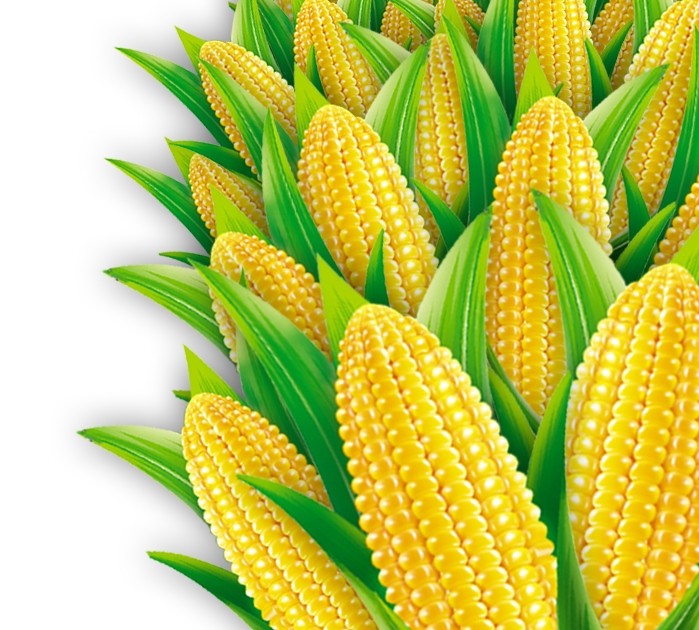
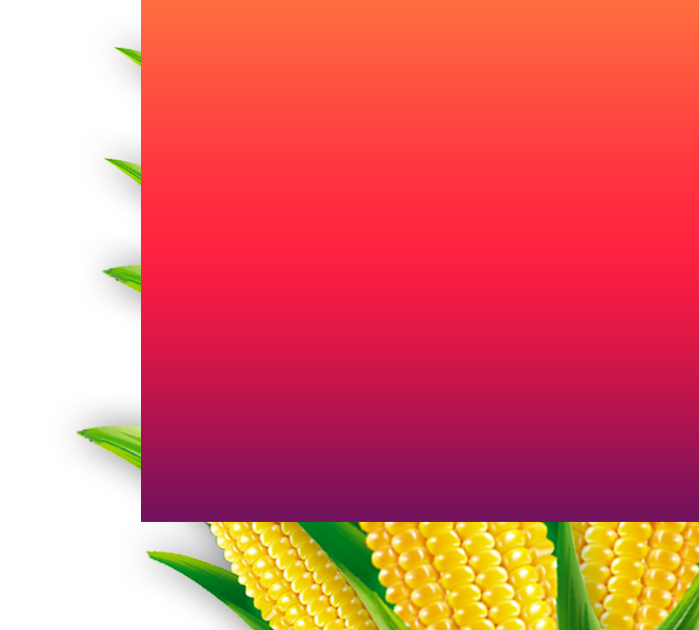
init

diff --git a/src/views/Farms/components/FarmCard/FarmCard.tsx b/src/views/Farms/components/FarmCard/FarmCard.tsx
@@ -133,6 +133,8 @@ const FarmCard: React.FC<FarmCardProps> = ({ farm, removed, cakePrice, bnbPrice,
 
   const { quoteTokenAdresses, quoteTokenSymbol, tokenAddresses, risk } = farm
 
+  if (risk !== 0) {
+
   return (
     <FCard>
       {farm.tokenSymbol === 'CORN' && <StyledCardAccent />}
@@ -202,5 +204,62 @@ const FarmCard: React.FC<FarmCardProps> = ({ farm, removed, cakePrice, bnbPrice,
     </FCard>
   )
 }
+
+  return (
+    <FCard>
+      {farm.tokenSymbol === 'CORN' && <StyledCardAccent />}
+      <CardHeading
+        lpLabel={lpLabel}
+        multiplier={farm.multiplier}
+        risk={risk}
+        depositFee={farm.depositFeeBP}
+        farmImage={farmImage}
+        tokenSymbol={farm.tokenSymbol}
+        otherExchange={farm.otherExchange}
+      />
+      {removed && (
+        <Flex justifyContent='space-between' alignItems='center'>
+          <Text color="#FFFFFF">{TranslateString(352, 'APR')}:</Text>
+          <Text color="#FFFFFF" bold style={{ display: 'flex', alignItems: 'center' }}>
+                ???%
+          </Text>
+        </Flex>
+      )}
+      <Flex justifyContent='space-between'>
+        <Text color="#FFFFFF">{TranslateString(318, 'Earn')}:</Text>
+        <Text mb="20px" color="#FFFFFF" bold>???</Text>
+      </Flex>
+      <Flex justifyContent='space-between'>
+        <Text color="#FFFFFF">{TranslateString(999, 'Create a pool for your token!')}</Text>
+        {/* <Text color="#FFFFFF" bold style={{ fontSize: '24px' }}>{(farm.depositFeeBP / 100)}%</Text> */}
+      </Flex>
+      <CardActionsContainer farm={farm} ethereum={ethereum} account={account} />
+      {/* <Divider />
+      <ExpandableSectionButton
+        onClick={() => setShowExpandableSection(!showExpandableSection)}
+        expanded={showExpandableSection}
+      />
+      <ExpandingWrapper expanded={showExpandableSection}>
+        <DetailsSection
+          removed={removed}
+          isTokenOnly={farm.isTokenOnly}
+          bscScanAddress={
+            farm.isTokenOnly ?
+              `https://cchain.explorer.avax.network/address/${farm.tokenAddresses[process.env.REACT_APP_CHAIN_ID]}`
+              :
+              `https://cchain.explorer.avax.network/address/${farm.lpAddresses[process.env.REACT_APP_CHAIN_ID]}`
+          }
+          totalValueFormated={totalValue}
+          lpLabel={lpLabel}
+          quoteTokenAdresses={quoteTokenAdresses}
+          quoteTokenSymbol={quoteTokenSymbol}
+          tokenAddresses={tokenAddresses}
+          otherExchange={farm.otherExchange}
+        />
+      </ExpandingWrapper> */}
+    </FCard>
+  )
+}
+
 
 export default FarmCard

diff --git a/src/views/Farms/components/FarmCard/CardActionsContainer.tsx b/src/views/Farms/components/FarmCard/CardActionsContainer.tsx
@@ -1,6 +1,7 @@
 import React, { useMemo, useState, useCallback } from 'react'
 import BigNumber from 'bignumber.js'
 import styled from 'styled-components'
+import { Link } from 'react-router-dom'
 import { provider } from 'web3-core'
 import { getContract } from 'utils/erc20'
 import { Button, Flex, Text } from '@pancakeswap-libs/uikit'
@@ -64,6 +65,8 @@ const CardActions: React.FC<FarmCardActionsProps> = ({ farm, ethereum, account }
     )
   }
 
+  if (pid !== -1) {
+
   return (
     <Action>
       <Flex>
@@ -87,6 +90,35 @@ const CardActions: React.FC<FarmCardActionsProps> = ({ farm, ethereum, account }
       {!account ? <UnlockButton mt="8px" fullWidth /> : renderApprovalOrStakeButton()}
     </Action>
   )
+}
+
+return (
+    <Action>
+      <Flex>
+        {/* <Text bold textTransform="uppercase" color="#FFFFFF" fontSize="12px" pr="3px">
+          TODO: Is there a way to get a dynamic value here from useFarmFromSymbol?
+          ???
+        </Text>
+        <Text bold textTransform="uppercase" color="#cacaca" fontSize="12px">
+          {TranslateString(999, 'Earned')}
+        </Text>
+      </Flex>
+      <HarvestAction earnings={earnings} pid={pid} decimal={decimal}/>
+      <Flex>
+        <Text bold textTransform="uppercase" color="#FFFFFF" fontSize="12px" pr="3px">
+          CORN
+        </Text>
+        <Text bold textTransform="uppercase" color="#cacaca" fontSize="12px">
+          {TranslateString(999, 'Staked')}
+        </Text> */}
+      </Flex>
+       <a href="https://t.me/FarmersOnlyDev" target="_blank" rel="noreferrer">
+        <Button mt="8px" fullWidth >Apply now</Button>
+      </a>
+    </Action>
+  )
+
+
 }
 
 export default CardActions

diff --git a/src/views/Farms/Farms.tsx b/src/views/Farms/Farms.tsx
@@ -43,11 +43,13 @@ const Farms: React.FC<FarmsProps> = (farmsProps) => {
 
   const [stakedOnly, setStakedOnly] = useState(false)
 
-  const activeFarms = farmsLP.filter((farm) => !!farm.isTokenOnly === !!tokenMode && farm.multiplier !== '0X')
-  const inactiveFarms = farmsLP.filter((farm) => !!farm.isTokenOnly === !!tokenMode && farm.multiplier === '0X')
+  const activeFarms = farmsLP.filter((farm) => !!farm.isTokenOnly === !!tokenMode && farm.multiplier !== '0X' && farm.pid !== -1)
+  const inactiveFarms = farmsLP.filter((farm) => !!farm.isTokenOnly === !!tokenMode && farm.multiplier === '0X' && farm.pid !== -1)
 
+  const dividendSubmit = farmsLP.filter((farm) => farm.pid === -1)
+  
   const stakedOnlyFarms = activeFarms.filter(
-    (farm) => farm.userData && new BigNumber(farm.userData.stakedBalance).isGreaterThan(0),
+    (farm) => farm.userData && farm.pid !== -1 && new BigNumber(farm.userData.stakedBalance).isGreaterThan(0),
   )
 
   // /!\ This function will be removed soon
@@ -163,15 +165,9 @@ const Farms: React.FC<FarmsProps> = (farmsProps) => {
       <div>
         {/* <Divider /> */}
         <FlexLayout>
-        {/* <FarmCard
-          key={0}
-          farm={farm}
-          removed={removed}    MODIFICA QUESTO XXXX
-          bnbPrice={bnbPrice}
-          cakePrice={cakePrice}
-          ethereum={ethereum}
-          account={account}
-        /> */}
+        <Route exact path={`${path}`}>
+            {farmsList(dividendSubmit, true)}
+          </Route>
           {/* <Route exact path={`${path}`}>
             {stakedOnly ? farmsList(stakedOnlyFarms, false) : farmsList(activeFarms, false)}
           </Route>

diff --git a/src/views/Home/components/CakeStats.tsx b/src/views/Home/components/CakeStats.tsx
@@ -49,7 +49,7 @@ const CakeStats = () => {
         </Row>
         <Row>
           <Text fontSize="14px" color="#FFFFFF">{TranslateString(536, 'Total Minted')}</Text>
-          {totalSupply && <CardValue fontSize="14px" value={getBalanceNumber(totalSupply)} decimals={0} />}
+          <CardValue fontSize="14px" value={getBalanceNumber(totalSupply)} decimals={0} />
         </Row>
         <Row>
           <Text fontSize="14px" color="#FFFFFF">{TranslateString(538, 'Total Burned')}</Text>
@@ -57,7 +57,7 @@ const CakeStats = () => {
         </Row>
         <Row>
           <Text fontSize="14px" color="#FFFFFF">{TranslateString(10004, 'Circulating Supply')}</Text>
-          {cakeSupply && <CardValue fontSize="14px" value={cakeSupply} decimals={0} />}
+          <CardValue fontSize="14px" value={cakeSupply} decimals={0} />
         </Row>
 		<Row>
           <Text fontSize="14px" color="#FFFFFF">{TranslateString(999, 'MAX Supply')}</Text>

diff --git a/src/config/constants/farms.ts b/src/config/constants/farms.ts
@@ -224,6 +224,26 @@ const farms: FarmConfig[] = [
     quoteTokenAdresses: contracts.usdc,
   },
 
+  // *********************************
+
+  // DIVIDEND SUBMIT FORM
+  {
+    pid: -1,
+    risk: 0,
+    isTokenOnly: true,
+    lpSymbol: 'Your Project? 👀',
+    decimal: 0,
+    lpAddresses: {
+      43114: '0x000000000000000000000000000000000000dEaD'
+    },
+    tokenSymbol: 'XXX',
+    tokenAddresses: {
+      43114: '0x000000000000000000000000000000000000dEaD'
+    },
+    quoteTokenSymbol: QuoteToken.USDC,
+    quoteTokenAdresses: contracts.usdc,
+  },
+
 ]
 
 export default farms

diff --git a/src/views/Home/components/TotalValueLockedCard.tsx b/src/views/Home/components/TotalValueLockedCard.tsx
@@ -10,6 +10,13 @@ const StyledTotalValueLockedCard = styled(Card)`
   align-items: center;
   display: flex;
   flex: 1;
+
+  opacity: 1;
+  background-image: url('/images/egg/tvl.png');
+  background-repeat: no-repeat;
+  background-position: top right;
+
+  
 `
 
 const TotalValueLockedCard = () => {

diff --git a/src/views/Home/components/FarmStakingCard.tsx b/src/views/Home/components/FarmStakingCard.tsx
@@ -29,7 +29,7 @@ z-index: 2;
     width: 100%;
     height: 100%;
     z-index: -1;
-    opacity: 0.2;
+    opacity: 0.9;
   background-image: url('/images/egg/2a.png');
   background-repeat: no-repeat;
   background-position: top right;

diff --git a/src/views/Home/Home.tsx b/src/views/Home/Home.tsx
@@ -45,7 +45,7 @@ const Hero = styled.div`
     padding-top: 0;
     position: relative;
     z-index: 2;
-    height: 300px;
+    height: 120px;
 
     &:before {
       content: ' ';

diff --git a/README.md b/README.md
@@ -1,4 +1,4 @@
-# 🩸 BloodySwap Finance Frontend
-[![Netlify Status](https://api.netlify.com/api/v1/badges/6928e691-8588-45c4-a4b1-54a92a71b526/deploy-status)](https://app.netlify.com/sites/silly-minsky-01ae5c/deploys)
+# 🌽 FarmersOnly Finance Frontend
+[![Netlify Status](https://api.netlify.com/api/v1/badges/6b17a537-78a1-4f20-80ac-94e8a02b0df2/deploy-status)](https://app.netlify.com/sites/objective-benz-7e29f5/deploys)
 
 This project contains the main features of the BloodySwap Finance application.
